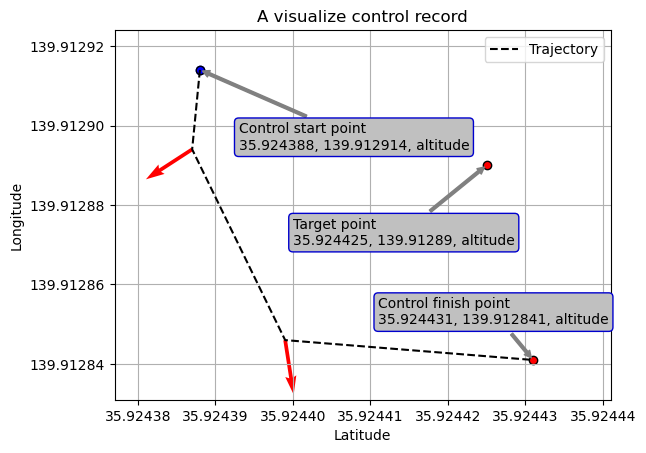
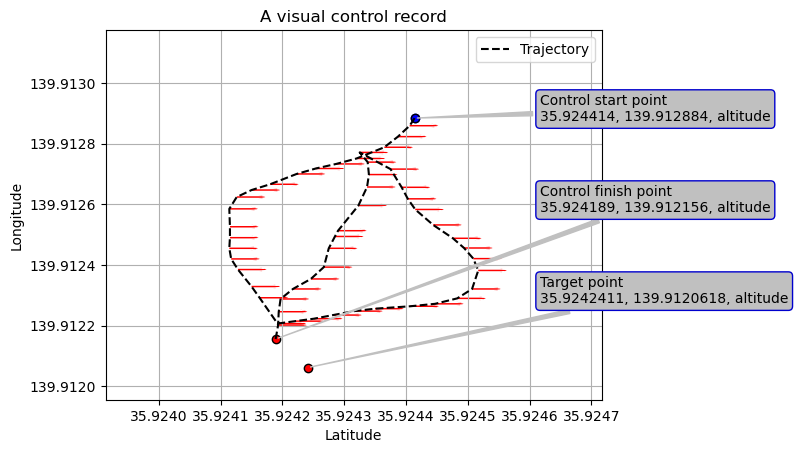
a

diff --git a/beta_get_map.py b/beta_get_map.py
@@ -33,13 +33,13 @@ def get_map(file_path, lat_goal, lon_goal):
 
         #-----描画処理-----#
         #グラフのタイトル
-        plt.title("A visualize control record")
+        plt.title("A visualized control record")
 
         #軸の範囲(少し大き目に設定)
-        lim_x1 = min(gps_lat) - 0.000010
-        lim_x2 = max(gps_lat) + 0.000010
-        lim_y1 = min(gps_lon) - 0.000010
-        lim_y2 = max(gps_lon) + 0.000010
+        lim_x1 = min(gps_lat) - 0.000150
+        lim_x2 = max(gps_lat) + 0.000200
+        lim_y1 = min(gps_lon) - 0.000150
+        lim_y2 = max(gps_lon) + 0.000200
         plt.xlim(lim_x1, lim_x2)
         plt.ylim(lim_y1, lim_y2)
 
@@ -53,7 +53,7 @@ def get_map(file_path, lat_goal, lon_goal):
 
         #座標のプロット
         plt.scatter(gps_lat[0], gps_lon[0], color="blue")
-        plt.quiver(gps_lat, gps_lon, cos_azimuth_array, sin_azimuth_array, color="red")
+        plt.quiver(gps_lat, gps_lon, cos_azimuth_array, sin_azimuth_array, color="red", width=0.003, edgecolor="black", scale=50)
         plt.plot(gps_lat, gps_lon, label="Trajectory", linestyle="dashed", color="black")
         
         #スタート地点、ゴール地点、制御終了地点の座標の表示
@@ -61,14 +61,12 @@ def get_map(file_path, lat_goal, lon_goal):
         plt.scatter(lat_goal, lon_goal, color="red", edgecolors="black")
         plt.scatter(gps_lat[-1], gps_lon[-1], color="red", edgecolors="black")
 
-
-
-        #地図の説明
-        arrow_dict = dict(arrowstyle="simple", color="gray", connectionstyle="arc3")
+        #地図の情報を表示
+        arrow_dict = dict(arrowstyle="wedge", color="silver", connectionstyle="arc3")
         text_dict = text_dict = dict(boxstyle="round",fc="silver", ec="mediumblue")
-        plt.annotate("Target point" + "\n" + str(lat_goal) + ", "+ str(lon_goal) + ", "+ "altitude", xy=(lat_goal, lon_goal), xytext=(lat_goal - 0.000025, lon_goal - 0.000020), arrowprops=arrow_dict, bbox=text_dict)
-        plt.annotate("Control start point" + "\n" + str(gps_lat[0]) + ", "+ str(gps_lon[0]) + ", "+ "altitude", xy=(gps_lat[0], gps_lon[0]), xytext=(gps_lat[0] + 0.000005, gps_lon[0] - 0.000020), arrowprops=arrow_dict, bbox=text_dict)
-        plt.annotate("Control finish point" + "\n" + str(gps_lat[-1]) + ", "+ str(gps_lon[-1]) + ", "+ "altitude", xy=(gps_lat[-1], gps_lon[-1]), xytext=(gps_lat[-1] - 0.000020, gps_lon[-1] + 0.000009), arrowprops=arrow_dict, bbox=text_dict)
+        plt.annotate("Target point" + "\n" + str(lat_goal) + ", "+ str(lon_goal) + ", "+ "altitude", xy=(lat_goal, lon_goal), xytext=(lim_x2 - 0.000100, lim_y2 - 0.000900), arrowprops=arrow_dict, bbox=text_dict)
+        plt.annotate("Control start point" + "\n" + str(gps_lat[0]) + ", "+ str(gps_lon[0]) + ", "+ "altitude", xy=(gps_lat[0], gps_lon[0]), xytext=(lim_x2 - 0.000100, lim_y2 - 0.000300), arrowprops=arrow_dict, bbox=text_dict)
+        plt.annotate("Control finish point" + "\n" + str(gps_lat[-1]) + ", "+ str(gps_lon[-1]) + ", "+ "altitude", xy=(gps_lat[-1], gps_lon[-1]), xytext=(lim_x2 - 0.000100, lim_y2 - 0.000600), arrowprops=arrow_dict, bbox=text_dict)
         
         #グリッドの表示
         plt.grid()
@@ -77,29 +75,16 @@ def get_map(file_path, lat_goal, lon_goal):
         plt.legend()
 
         #地図の保存
-        plt.savefig('A visual control record.png', bbox_inches='tight')
+        plt.savefig('A visualized control record.png', bbox_inches='tight')
         plt.show()
 
-        print(gps_lat)
-        print(gps_lon)
-        print(rover_azimuth)
-
-
-        # plt.scatter(gps_lat, gps_lon) #, s=10, c='blue', marker='o', label='rover')
-        # plt.show()
-
-    #-----lat, lonの取得-----#
-    # for i in range(5):
-    #     lat = log_data[i][0]
-    #     lon = log_data[i][1]
-    #     rover_azimuth = log_data[i][2]
-    #     # print(lat, lon, rover_azimuth)
-    #     # print(log_data_T[0])
-
+        # print(gps_lat)
+        # print(gps_lon)
+        # print(rover_azimuth)
 
 if __name__ == '__main__':
     file_path = 'log_data.csv'
-    lat_goal = 35.924425
-    lon_goal = 139.912890
+    lat_goal = 35.9242411
+    lon_goal = 139.9120618
 
     get_map(file_path, lat_goal, lon_goal)
